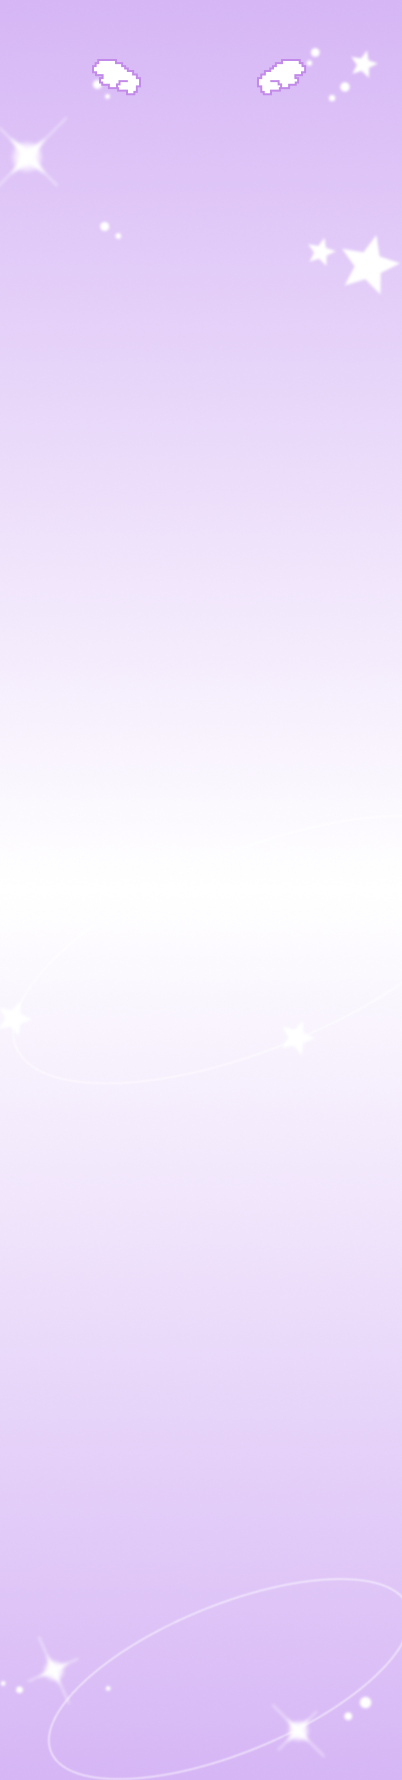
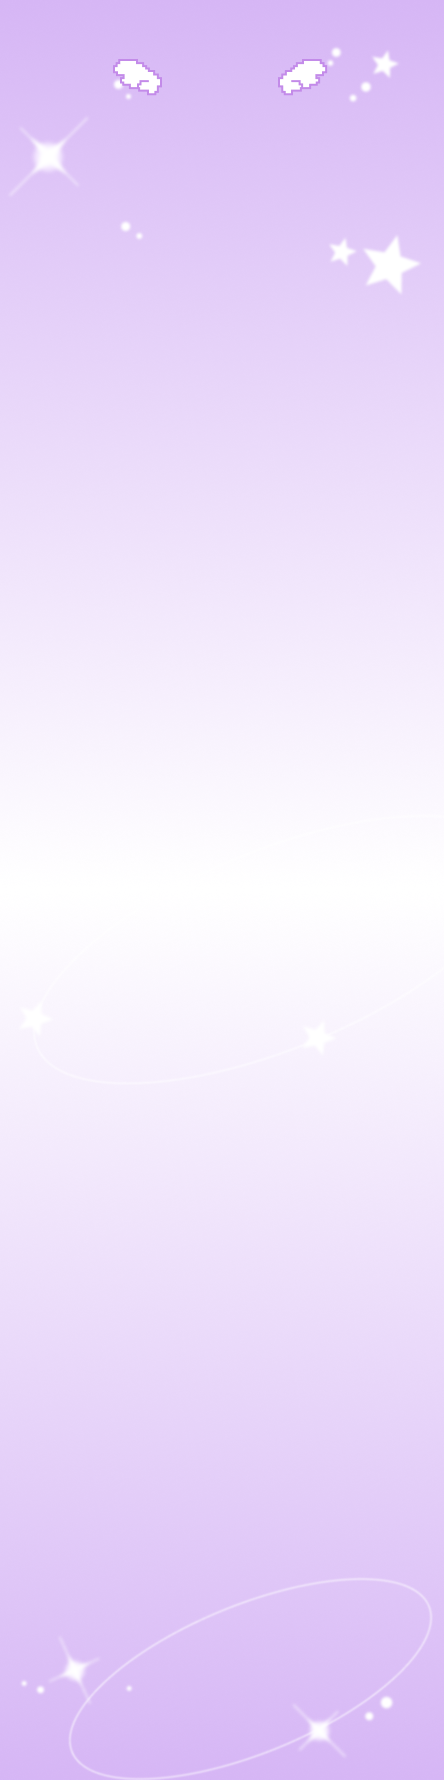
뭔가바꿈

diff --git a/project01/src/pages/artist/illit/ArtistProfile.css b/project01/src/pages/artist/illit/ArtistProfile.css
@@ -36,13 +36,16 @@
     position: relative;
     cursor: pointer;
   }
-.ArtistHeader {height: 106px;position: fixed;top: 0;left: 0;width: 100%;z-index: 999;}
-.Artistcontent {position: relative;margin-top: 106px;}
 
-.artistheaderbg  {position: absolute;top:0;left: 0;z-index: -999;width: 100%;height: 106px;}
+.ArtistHeader {height: 106px;position: fixed;top: 0;left: 0;width: 100%;z-index: 999;}
+.Artistcontent {margin-top: 106px;}
+.ArtistProfile{position: relative;}
+.artistheaderbg  {position: fixed;top:0;left: 0;z-index: -999;width: 100%;height: 106px;}
 .artistheaderbg img {width: 100%;height: 100%;object-fit: cover;}
-.artistbg {position: absolute;top: -1px;left: 0;z-index: -999;width: 100%;height: 100%;}
+
+.artistbg {position: absolute;top: 105px;left: 0;z-index: -999;width: 100%;height: 100%;}
 .artistbg img {width: 100%;height: 100%;object-fit: cover;}
+
 .ArtistProfile .top-profile {display: flex;flex-direction: column;justify-content: center;text-align: center;align-items: center;color: #666;}
 .ArtistProfile .top-profile .profile-img {border: 1px solid #000;border-radius: 50%;margin-bottom: 6px;width: 60px;height: 60px;margin-left: 5px;}
 .ArtistProfile .top-profile .profile-img img {width: 100%;height: 100%;object-fit: cover;}

diff --git a/project01/src/pages/artist/illit/ArtistProfile.jsx b/project01/src/pages/artist/illit/ArtistProfile.jsx
@@ -37,8 +37,8 @@ const ArtistProfile = () => {
             <Link to="ArtistB" className="toggle-btn">댓글</Link>
           </div>
           <div className="container Artist"><Outlet /></div>
-          <div className="artistbg"><img src={content} alt="" /></div>
           </div>
+          <div className="artistbg"><img src={content} alt="" /></div>
     </div>
   )
 }

diff --git a/project01/src/index.css b/project01/src/index.css
@@ -8,3 +8,9 @@ button {border: none;background: none;cursor: pointer;}
 /* flex:1 남은 공간을 모두 차지해서 footer가 화면 맨 아래로 고정돰 */
 .container {padding: 16px;}
 .subtitle{font-size: 18px;margin: 16px 0;}
+
+
+
+@media screen and (max-width:390px) {
+    .container {padding: 0;}
+  }
